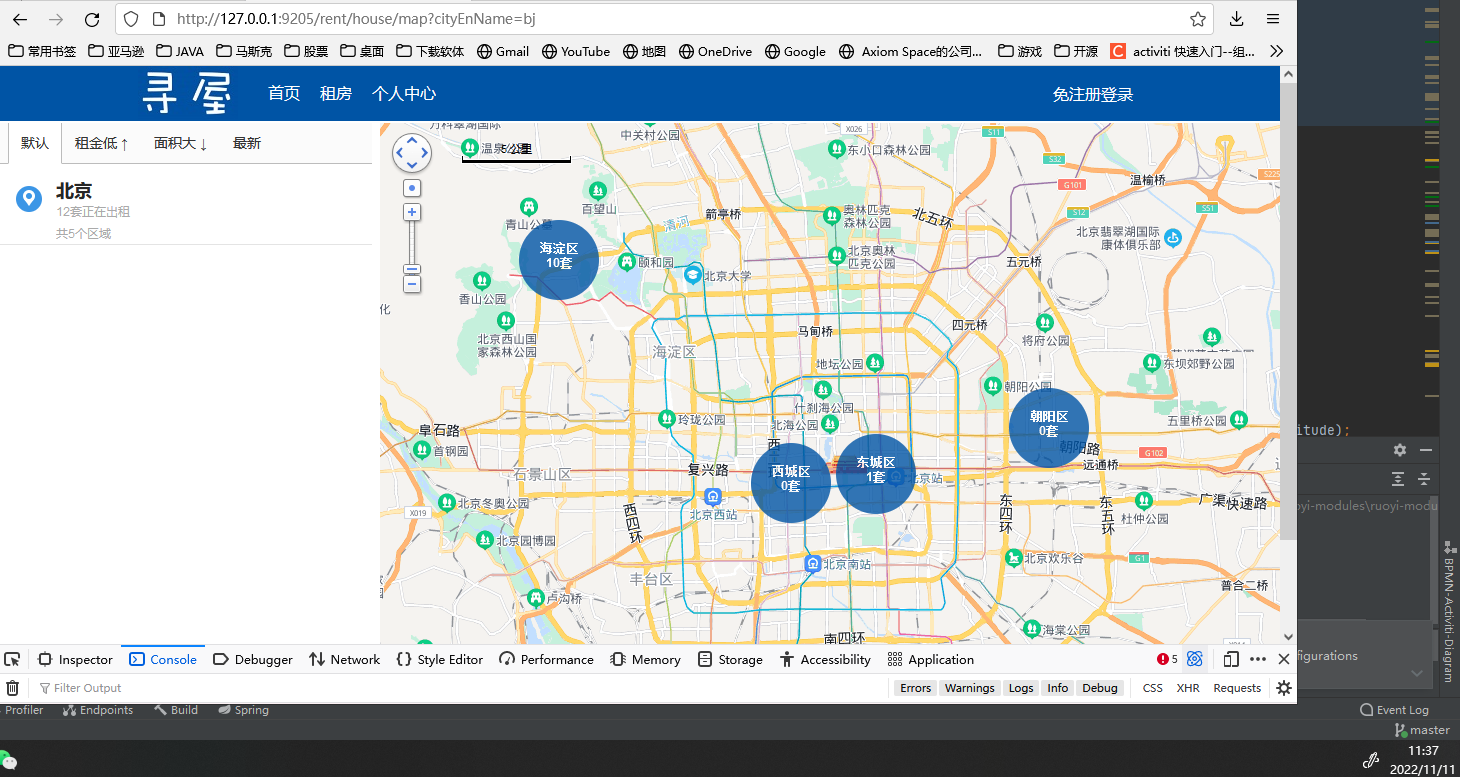
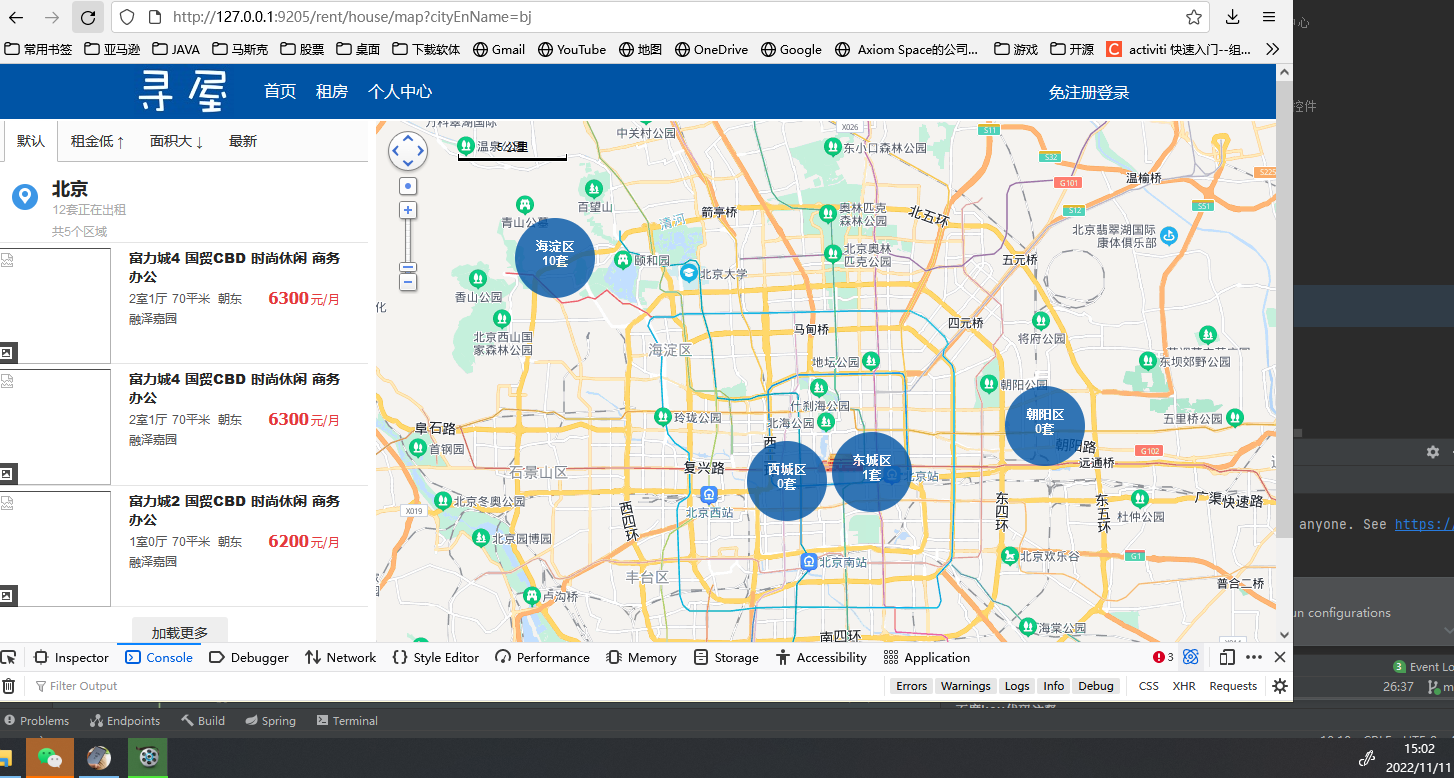
2.地图左侧加载具体的房源数据 全地图查询房源数据实现

diff --git a/ruoyi-modules/ruoyi-modules-news/src/main/resources/static/js/rent-map.js b/ruoyi-modules/ruoyi-modules-news/src/main/resources/static/js/rent-map.js
@@ -22,8 +22,8 @@ function load(city, regions, aggData) {
     }
 
     drawRegion(map, regions);
-    //
-    // loadHouseData();
+
+    loadHouseData();//地图左侧加载具体的房源数据
     //
     // // 缩放事件
     // map.addEventListener('zoomend', function (event) {
